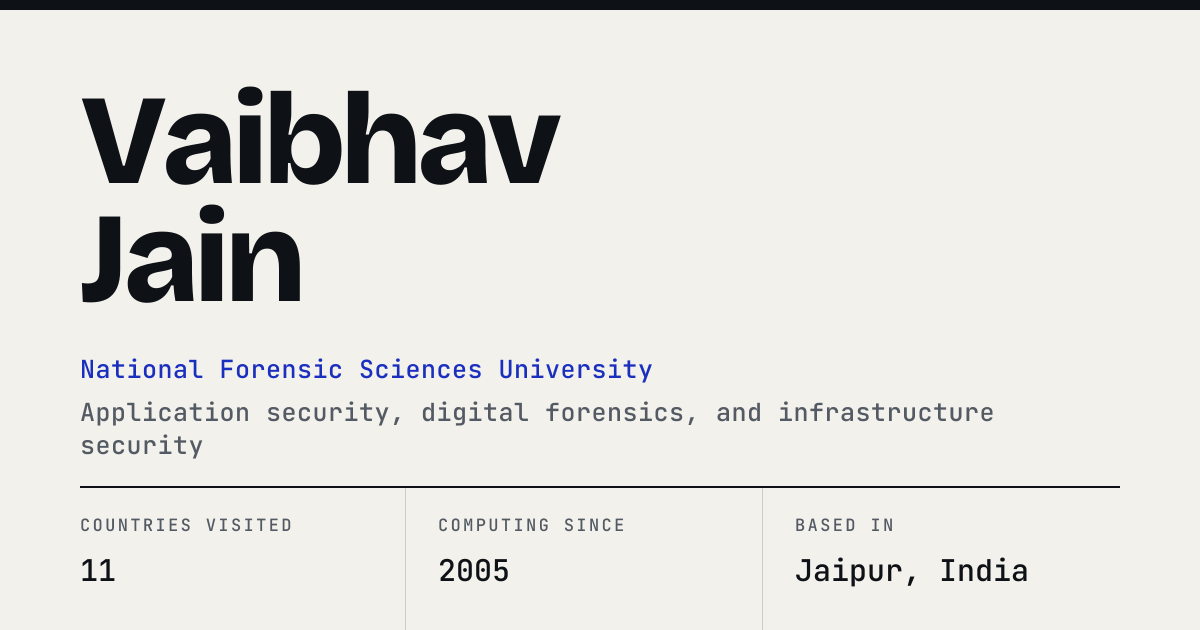
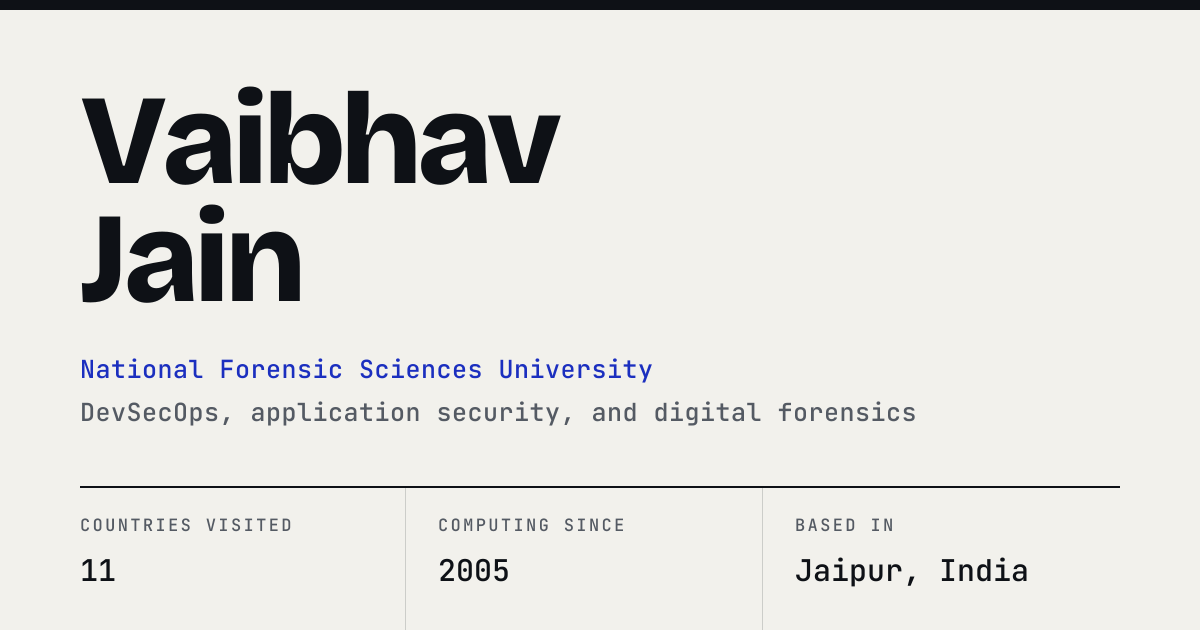
feat(content): lead with the DevSecOps hybrid and fix the canonical origin (#2)
* fix(seo): point the canonical origin at the domain the site is served from

`public/CNAME` moved GitHub Pages to jainvaibhav.me, but `SITE_URL` still
named vaibhavjain2609.github.io, so every canonical, `og:url`, JSON-LD
`@id`, and sitemap entry pointed at an origin that 301s elsewhere: a
self-referencing canonical aimed off-site, and scrapers fetching the share
image through a redirect. `package.json` `homepage` moves with it, since
`verify-export` reads it as the expected origin.

robots.txt still advertised the upstream template's sitemap
(mldangelo.com), which is neither this site nor a redirect to it.

* refactor(skills): group the build tooling under DevOps / DevSecOps

Filtering to DevOps is the first thing a platform screen does on the resume
page, and it returned two entries — CI/CD Pipelines and GitHub Actions —
while Docker, Azure, Git, Bash, and PowerShell sat under Infrastructure and
Languages. Infrastructure now means the estate that gets run (Linux, the
Sophos firewall); DevOps / DevSecOps means the tooling that builds and ships
onto it. The category is named for both words because job descriptions use
them interchangeably and neither should be the one that fails to match.

Azure did not get a Cloud category of its own: it and Entra ID would read as
a two-item stub beside categories holding a dozen.

* feat(content): lead with the hybrid rather than one half of it

The hero, the bio, and the share metadata all opened on offensive security
[…]

Changed region(s): [[0.0617, 0.6333, 0.4933, 0.7238], [0.5242, 0.6333, 0.8325, 0.6937]]

diff --git a/src/data/about.ts b/src/data/about.ts
@@ -1,12 +1,12 @@
 export const aboutMarkdown = `# Intro
 
-I am Vaibhav Jain, a security engineer working across offensive security and digital forensics. I am currently reading for an M.Sc. in Digital Forensics and Information Security at the [National Forensic Sciences University](https://www.nfsu.ac.in/), with coursework in web application security, malware analysis, and network security forensics.
+I am Vaibhav Jain, a security engineer who builds the delivery pipeline and secures it — DevSecOps and platform work on one side, application security and digital forensics on the other. I am currently reading for an M.Sc. in Digital Forensics and Information Security at the [National Forensic Sciences University](https://www.nfsu.ac.in/), with coursework in web application security, malware analysis, and network security forensics.
 
-Most recently I was a cybersecurity analyst intern at [Ekvayu Tech](https://ekvayu.com), a deep-tech security company in Noida, where I ran VAPT against the company's own security tooling and remediated more than fifteen critical findings. Before that I built systems rather than broke them: a member portal for a 970-member housing society, an authentication layer on Spring Boot and Keycloak, and internal tooling on the Microsoft Power Platform.
+Most recently I was back at [Ekvayu Tech](https://ekvayu.com), a deep-tech security company in Noida, on the build side: deployment pipelines across environments, OPNsense firewall hardening, and VLAN segmentation to limit lateral movement. My first stint there was the offensive one — VAPT against the company's own security tooling, with more than fifteen critical findings remediated. Before either, I built systems rather than broke them: a member portal for a 970-member housing society, an authentication layer on Spring Boot and Keycloak, and internal tooling on the Microsoft Power Platform.
 
 I hold a B.S. in Computer Science from [California State University, Sacramento](https://www.csus.edu/). The useful part of that background is the overlap — I audit web applications with the instincts of someone who has had to ship and maintain them.
 
-If you are hiring for application security, digital forensics, or incident response, or you just want to compare notes, [get in touch](/contact).
+If you are hiring for DevOps, DevSecOps, application security, or digital forensics, or you just want to compare notes, [get in touch](/contact).
 
 # Some History
 
@@ -24,6 +24,7 @@ If you are hiring for application security, digital forensics, or incident respo
 - In 2020 I began studying at Foothill College, and returned to India three months later when the pandemic closed the campus.
 - In 2022 I returned to the United States to finish my degree at Sacramento State, graduating in 2024.
 - In 2025 I moved into security properly: an internship at Ekvayu Tech, then a contract building an 80-user Active Directory environment and a hardened SSL VPN for a chartered accountancy firm in New Delhi.
+- In 2026 I returned to Ekvayu Tech on the platform side, owning deployment pipelines across environments, OPNsense firewalls, and VLAN segmentation — the same systems I had spent the previous summer attacking.
 
 # I Like
 

diff --git a/src/data/resume/skills.ts b/src/data/resume/skills.ts
@@ -91,14 +91,17 @@ const skills: Skill[] = [
     category: ['Databases', 'Languages'],
   },
   {
+    // Shells are listed as languages *and* as DevOps tooling: they are how the
+    // pipeline and the Windows estate are actually driven, not a general-
+    // purpose language choice.
     title: 'Bash',
     competency: 4,
-    category: ['Infrastructure', 'Languages'],
+    category: ['DevOps / DevSecOps', 'Languages'],
   },
   {
     title: 'PowerShell',
     competency: 3,
-    category: ['Infrastructure', 'Languages'],
+    category: ['DevOps / DevSecOps', 'Languages'],
   },
   {
     title: 'C/C++',
@@ -164,20 +167,11 @@ const skills: Skill[] = [
     competency: 3,
     category: ['Databases'],
   },
-  // Infrastructure
+  // Infrastructure — the estate that gets run, as distinct from the tooling
+  // that builds and ships onto it, which is DevOps / DevSecOps below.
   {
     title: 'Linux',
     competency: 4,
-    category: ['Infrastructure'],
-  },
-  {
-    title: 'Docker',
-    competency: 3,
-    category: ['Infrastructure'],
-  },
-  {
-    title: 'Azure',
-    competency: 3,
     category: ['Infrastructure'],
   },
   {
@@ -185,22 +179,38 @@ const skills: Skill[] = [
     competency: 3,
     category: ['Infrastructure', 'Networking'],
   },
-  {
-    title: 'Git',
-    competency: 4,
-    category: ['Infrastructure'],
-  },
-  // Platform and networking, from the 2026 Ekvayu stint — deployment pipelines
-  // across environments, OPNsense, and VLAN segmentation.
+  // DevOps / DevSecOps. Mostly from the 2026 Ekvayu stint — deployment
+  // pipelines across environments — plus the container, cloud, and
+  // version-control tooling that used to sit under Infrastructure. Filtering
+  // to this category is the first thing a DevOps screen does on this page, and
+  // it previously returned two entries while Docker, Azure, and Git sat one
+  // category over.
   {
     title: 'CI/CD Pipelines',
     competency: 3,
-    category: ['DevOps', 'Infrastructure'],
+    category: ['DevOps / DevSecOps'],
   },
   {
     title: 'GitHub Actions',
     competency: 3,
-    category: ['DevOps', 'Infrastructure'],
+    category: ['DevOps / DevSecOps'],
+  },
+  {
+    title: 'Docker',
+    competency: 3,
+    category: ['DevOps / DevSecOps'],
+  },
+  {
+    // No separate "Cloud" category: it would hold this and Entra ID and read
+    // as a two-item stub next to categories with a dozen entries.
+    title: 'Azure',
+    competency: 3,
+    category: ['DevOps / DevSecOps'],
+  },
+  {
+    title: 'Git',
+    competency: 4,
+    category: ['DevOps / DevSecOps'],
   },
   {
     title: 'OPNsense',

diff --git a/src/components/Template/Hero.tsx b/src/components/Template/Hero.tsx
@@ -13,23 +13,27 @@ export default function Hero() {
             <span className="hero-name">{profile.name}</span>
           </h1>
 
-          {/* Leads with the professional identity, not the enrolment status.
-              A recruiter reads the nouns in the first clause, and opening with
-              "M.Sc. candidate" made a security engineer with five roles behind
-              him scan as a student. `role` and `employer` still state the true
-              current position in the footer and in schema.org. */}
+          {/* Leads with the hybrid, because that is the thing that is hard to
+              hire for: someone who builds the delivery pipeline and also
+              secures it. The two halves are stated as two halves — build side
+              first — so a DevOps screen and an AppSec screen each find their
+              vocabulary in the first two sentences rather than one of them
+              having to read to the end. Enrolment status stays last; opening
+              with "M.Sc. candidate" made a security engineer with five roles
+              behind him scan as a student. */}
           <p className="hero-tagline">
-            {profile.headline} working across application security, digital
-            forensics, and the infrastructure under both. I run penetration
-            testing and VAPT against web applications — 15+ critical
-            vulnerabilities remediated at{' '}
+            {profile.headline} — I build the delivery pipeline and secure it. On
+            the build side: CI/CD pipelines promoting from development through
+            to production, Docker, Linux, and cloud and identity infrastructure
+            on Azure and Entra ID. On the security side: penetration testing and
+            VAPT against web applications — 15+ critical vulnerabilities
+            remediated at{' '}
             <a href="https://ekvayu.com" className="hero-highlight">
               Ekvayu Tech
             </a>{' '}
-            — do memory forensics and incident response on compromised systems,
-            and build the platform underneath: CI/CD pipelines, OPNsense
-            firewalls and VLAN segmentation, and an 80-user Active Directory and
-            hardened SSL VPN estate from scratch. Currently an {profile.role} at{' '}
+            — OPNsense firewalls and VLAN segmentation, and memory forensics and
+            incident response on compromised systems. Currently an{' '}
+            {profile.role} at{' '}
             <a href="https://www.nfsu.ac.in/" className="hero-highlight">
               {profile.employer}
             </a>

diff --git a/src/lib/utils.ts b/src/lib/utils.ts
@@ -11,8 +11,17 @@ import profile from '@/data/profile.json';
  * JSON-LD, and every page's `alternates.canonical` derive from it. To move the
  * site to a custom domain, change this value and add a matching `public/CNAME`
  * — nothing else needs to change.
+ *
+ * This must be the origin the site is actually *served* from, not the one it
+ * is deployed to. `public/CNAME` pointed GitHub Pages at the custom domain
+ * while this constant still said `vaibhavjain2609.github.io`, so every
+ * canonical, `og:url`, JSON-LD `@id`, and sitemap entry named an origin that
+ * 301s to somewhere else — crawlers see a self-referencing canonical pointing
+ * off-site, and scrapers fetch the share image through a redirect. Keep this,
+ * `public/CNAME`, and `homepage` in `package.json` (which `verify-export`
+ * reads as the expected origin) in agreement.
  */
-export const SITE_URL = 'https://vaibhavjain2609.github.io';
+export const SITE_URL = 'https://jainvaibhav.me';
 export const AUTHOR_NAME = profile.name;
 /**
  * The portrait. Used for JSON-LD `image`, where the value should be a picture
@@ -39,9 +48,19 @@ export const SHARE_IMAGE_DIMENSIONS = {
   height: 630,
 } as const;
 
-// Canonical one-line bio, shared across page metadata, OpenGraph, and JSON-LD.
+/**
+ * Canonical one-line bio, shared across page metadata, OpenGraph, and JSON-LD.
+ *
+ * Leads with the hybrid — builds the pipeline and secures it — because that is
+ * what separates this profile from either a pure DevOps or a pure AppSec one,
+ * and a search result is read left to right. Every term here is claimed
+ * elsewhere on the site by a role, a project, or a listed skill; keep it that
+ * way. Role-targeting vocabulary that is not yet backed by work belongs in the
+ * `keywords` array in `app/layout.tsx`, which no major engine ranks on, not in
+ * the sentence a human reads under the search result.
+ */
 export const SITE_DESCRIPTION =
-  'Security engineer and M.Sc. candidate in Digital Forensics and Information Security at NFSU. I break web applications, analyse malware, and build the systems I audit.';
+  'Security engineer who builds the pipeline and secures it: DevSecOps and CI/CD, Docker, cloud and network security, penetration testing, VAPT, and digital forensics. M.Sc. candidate at NFSU.';
 
 // Image dimension constants
 export const PROJECT_IMAGE = {

diff --git a/app/layout.tsx b/app/layout.tsx
@@ -17,14 +17,34 @@ export const metadata: Metadata = {
     template: `%s | ${AUTHOR_NAME}`,
   },
   description: SITE_DESCRIPTION,
+  // Every term here is claimed by a role, a project, or a listed skill
+  // elsewhere on the site. Terraform, Kubernetes, and infrastructure as code
+  // were briefly here as target-role vocabulary and were removed: keywords are
+  // inert to every major engine, so they win nothing, and a page that names a
+  // tool is a page that gets asked about it. Add them back when there is work
+  // behind them — and at that point they belong in the skills list too.
   keywords: [
     AUTHOR_NAME,
+    'DevSecOps',
+    'DevOps engineer',
     'application security',
+    'CI/CD',
+    'CI/CD pipelines',
+    'GitHub Actions',
+    'Docker',
+    'containers',
+    'cloud security',
+    'Azure',
+    'Entra ID',
+    'Active Directory',
+    'Linux',
+    'network security',
+    'firewall configuration',
+    'penetration testing',
+    'VAPT',
     'digital forensics',
     'incident response',
     'malware analysis',
-    'penetration testing',
-    'VAPT',
     'security engineer',
     'NFSU',
   ],

diff --git a/src/lib/schema.ts b/src/lib/schema.ts
@@ -101,7 +101,7 @@ export function websiteNode(): SchemaNode {
     '@id': WEBSITE_ID,
     url: HOME_URL,
     name: AUTHOR_NAME,
-    alternateName: ['vaibhavjain2609.github.io', 'vaibhavjain2609'],
+    alternateName: ['jainvaibhav.me', 'vaibhavjain2609'],
     description: SITE_DESCRIPTION,
     inLanguage: SITE_LANGUAGE,
     publisher: personRef(),

diff --git a/AGENTS.md b/AGENTS.md
@@ -77,6 +77,8 @@ Next.js 16 (App Router) · React 19 · TypeScript · Tailwind CSS v4 · Biome ·
 - **Node baseline lives in three places**: `.nvmrc` (development plus the install/quality/test jobs), `engines.node` in `package.json` (what forks are told they can use), and the `build` matrix in `.github/workflows/node.js.yml` (literals — a matrix cannot read `.nvmrc`). The deployed leg is named once as the workflow-level `DEPLOY_NODE` env so the Pages-configure and artifact-upload gates cannot drift apart; a build step asserts `DEPLOY_NODE` still matches `.nvmrc`. Derive the `engines` floor from the tightest transitive requirement rather than guessing — `jsdom` currently forces `^22.13.0`, and `@testing-library/jest-dom` requires `>=22`, which is why Node 20 had to go
 - **Production compiler**: `npm run build` intentionally passes `--webpack`. Turbopack's build tracer stalls on the build-time public-image header reader used by article rendering; keep development on Turbopack, but do not restore Turbopack production builds until this exact export completes promptly on the full CI matrix
 - **Canonical/export URLs**: When generating absolute URLs for metadata, RSS, sitemap, or schema, match `trailingSlash: true` output (`/about/`, `/writing/post-slug/`) instead of non-canonical no-slash variants; file-like routes such as `/feed.xml` and `/sitemap.xml` stay file-like
+- **The site origin is declared in three places and they must agree**: `SITE_URL` in `src/lib/utils.ts` (canonicals, `og:url`, JSON-LD `@id`, sitemap), `homepage` in `package.json` (what `verify-export` checks those against), and `public/CNAME` (what GitHub Pages actually serves). `verify-export` compares the export against `homepage`, so it passes happily when all three are wrong together — it caught nothing when `CNAME` moved the site to the custom domain and the other two stayed on `github.io`, publishing canonicals that 301 off-site. After changing any of them, confirm the live origin with `curl -sI https://<domain>/` and check for a 301. `websiteNode()`'s `alternateName` in `src/lib/schema.ts` and `public/robots.txt`'s `Sitemap:` line carry the host literally and do not derive from `SITE_URL`
+- **Every skill term on the site is claimed by real work**: `SITE_DESCRIPTION`, the hero, the `keywords` array in `app/layout.tsx`, and `src/data/resume/skills.ts` all name only tools there is a role or project behind. Meta keywords are inert to every major engine, so aspirational terms win nothing there while still being a tool the page names and an interviewer can ask about — Terraform and Kubernetes were added and removed on exactly that reasoning. When a tool becomes real, it goes into the skills list, not just the keywords
 - **Page metadata**: Route-level `metadata` exports and `generateMetadata` should override `openGraph` and `twitter`, not just `title`/`description`, otherwise subpages inherit the homepage share card from `app/layout.tsx`; for `app/not-found.tsx`, omit `openGraph.url` because there is no stable canonical 404 route in the static export
 - **Metadata objects replace, they do not merge**: a route-level `openGraph`, `twitter`, or `alternates` object wholly replaces the inherited one, so anything omitted vanishes from that page. This has caused three separate bugs — posts with no `og:image`, subpages with no image at all, and the writing index with no canonical after it declared RSS `types`. Spread `sharedOpenGraph` / `sharedTwitter` from `src/lib/metadata.ts`, and spread the existing `alternates` before adding to it. `app/__tests__/page-metadata.test.ts` pins all of it
 - **Share images**: The card is `public/og.png`, regenerated with `npm run og`; commit it together with `public/og.meta.json`, which binds the image to its generator and profile inputs. Do **not** convert this to an `app/opengraph-image.tsx` metadata route: it emits an extensionless file that GitHub Pages serves as `application/octet-stream`, which scrapers reject, and the file convention only reaches routes that do not declare their own `openGraph`
